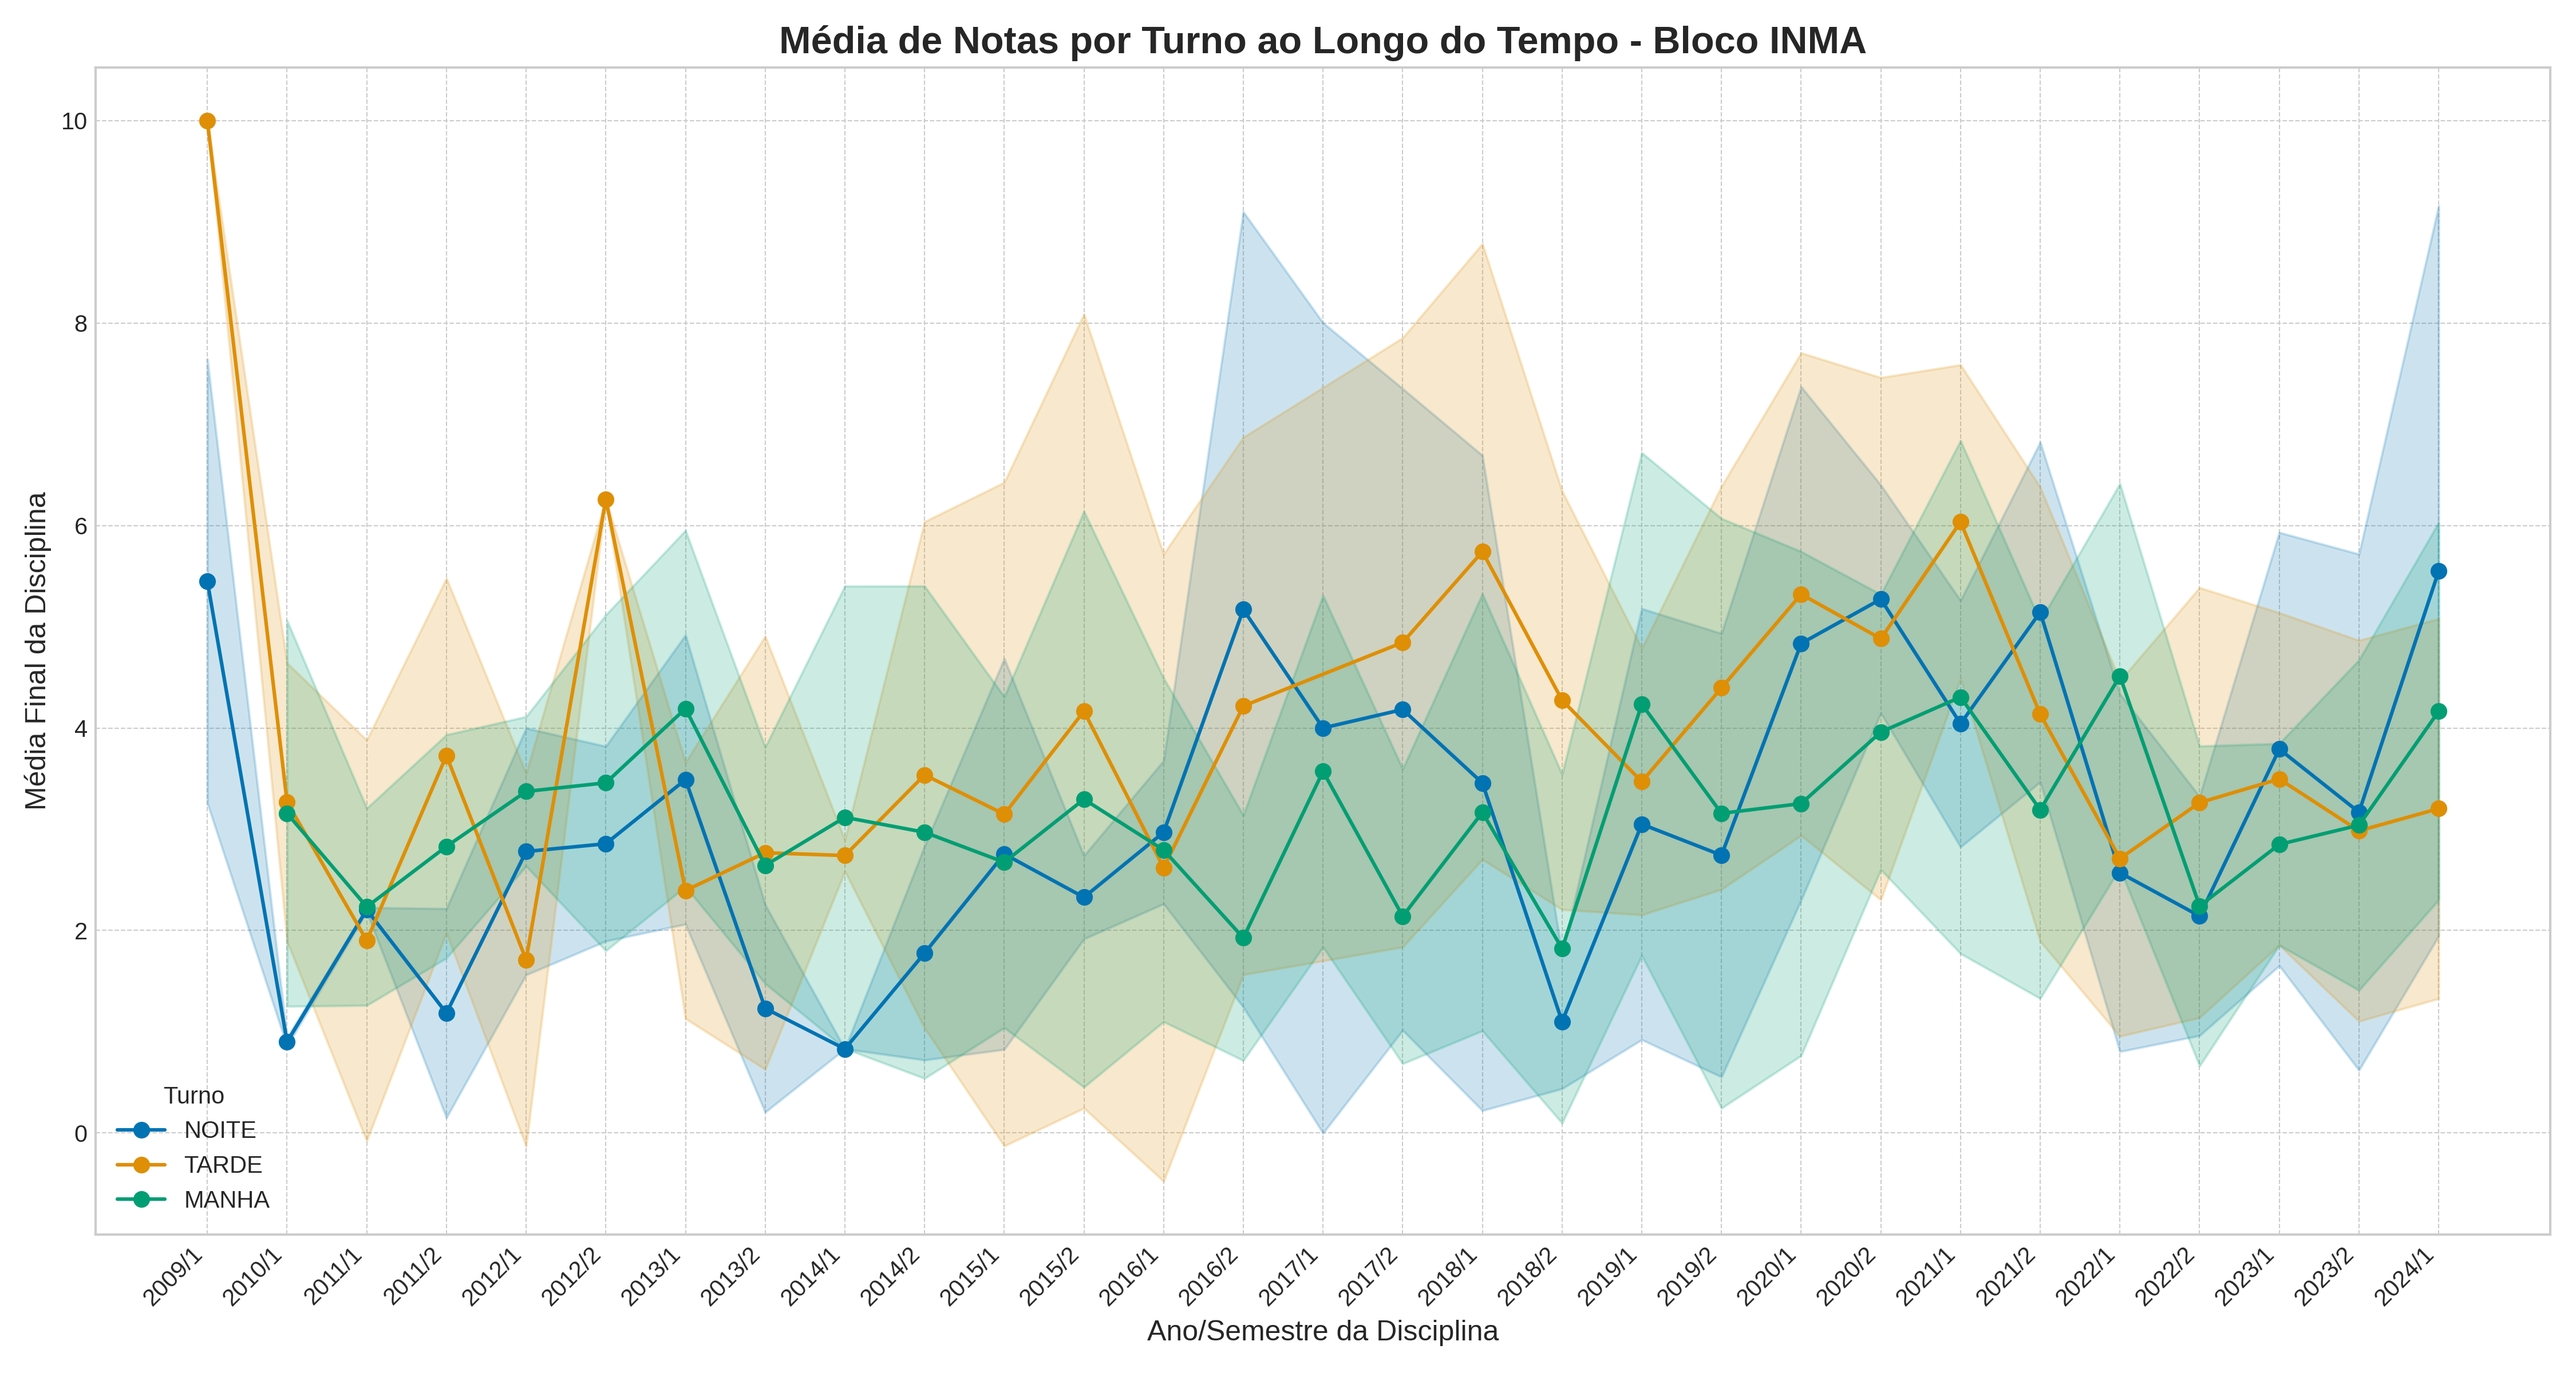
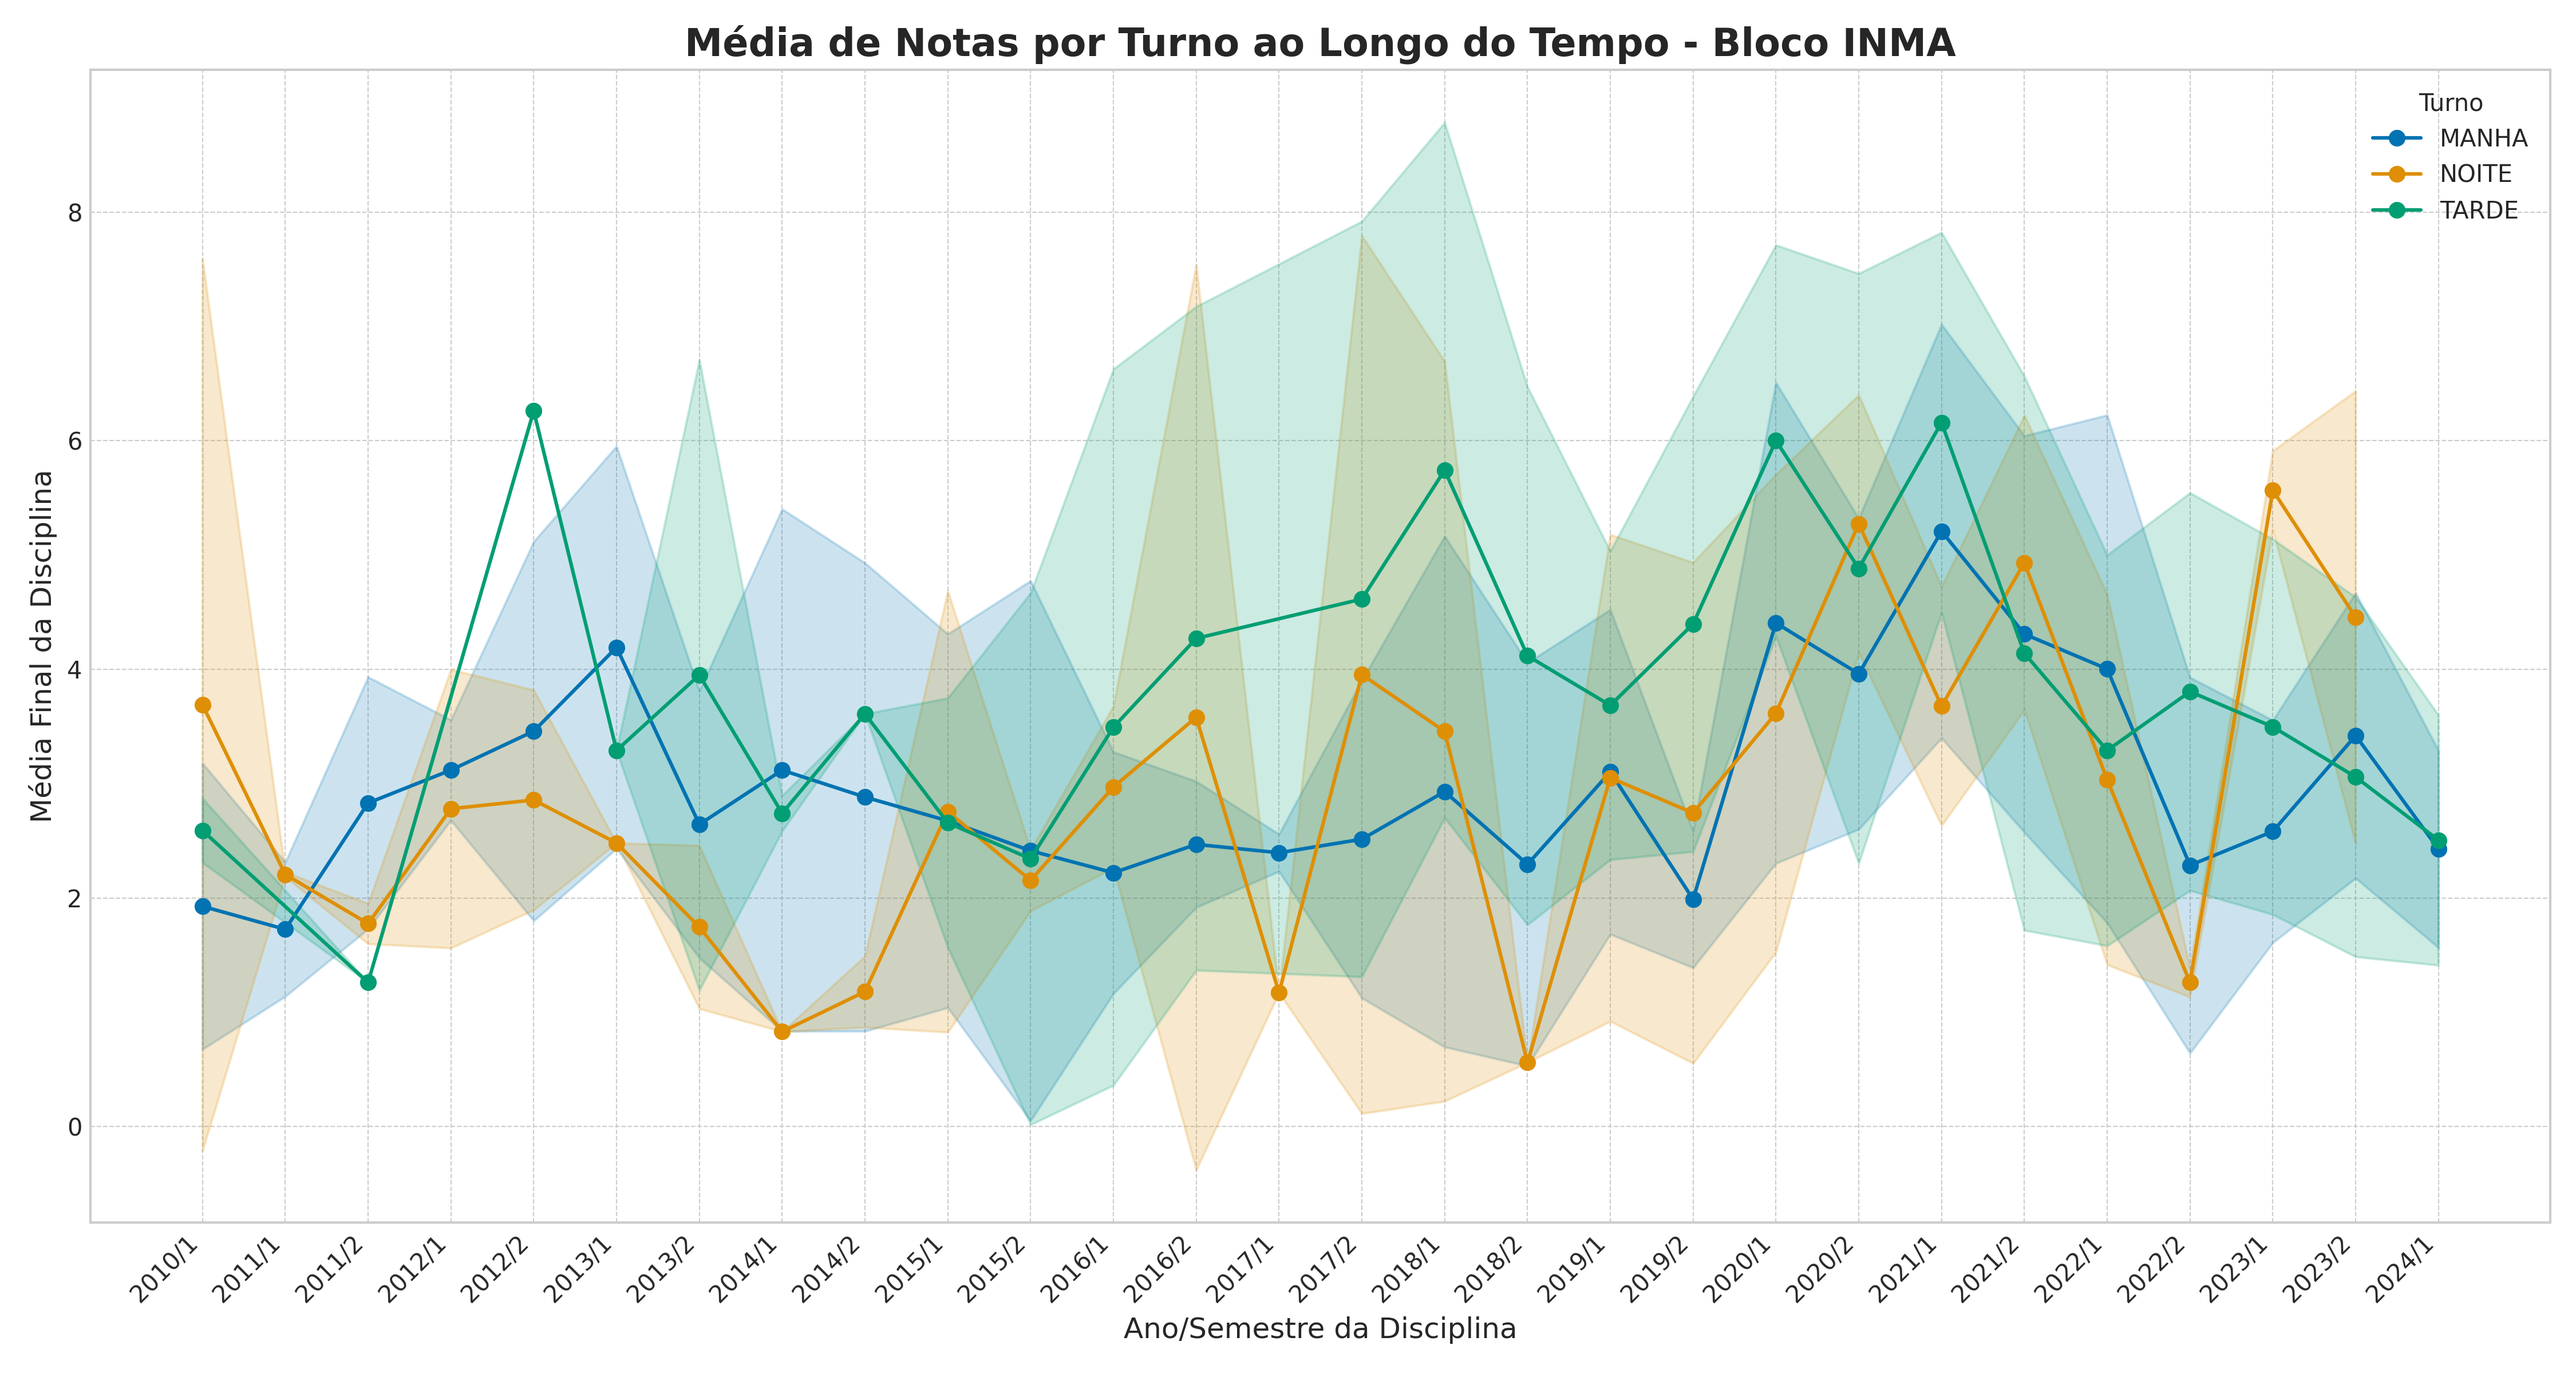
Implement code changes to enhance functionality and improve performance

diff --git a/graphs/graphs_analysis.py b/graphs/graphs_analysis.py
@@ -4,140 +4,142 @@ import matplotlib.pyplot as plt
 from pathlib import Path
 import logging
 
-BASE_PATH = Path(__file__).resolve().parent.parent
+
+BASE_PATH = Path().resolve()
 RESULTS_FOLDER = BASE_PATH / 'results'
+RESULTS_FOLDER.mkdir(exist_ok=True) 
 INPUT_CSV_PATH = RESULTS_FOLDER / 'materias_regulares.csv'
-OUTPUT_PLOT_PATH = RESULTS_FOLDER / 'media_turno_bloco_inma.png'
-OUTPUT_CSV_PATH = RESULTS_FOLDER / 'analise_bloco_inma_agregado.csv'
 
-TARGET_BLOCK = 'INMA'
 
-PLOT_CONFIG = {
-    "figsize": (15, 8),
-    "title": f"Média de Notas por Turno ao Longo do Tempo - Bloco {TARGET_BLOCK}",
-    "xlabel": "Ano/Semestre da Disciplina",
-    "ylabel": "Média Final da Disciplina",
-    "dpi": 300
-}
+MIN_STUDENTS_FILTER = 5
+MAX_WEEKLY_CLASSES_FILTER = 3
+BLOCK_NUN = "N/A"
 
 logging.basicConfig(level=logging.INFO, format='%(asctime)s - %(levelname)s - %(message)s')
 
 def load_data(file_path: Path) -> pd.DataFrame:
+    """Carrega os dados do arquivo CSV."""
     logging.info(f"Carregando dados de: {file_path}")
     if not file_path.exists():
         logging.error(f"Arquivo de entrada não encontrado: {file_path}")
         raise FileNotFoundError(f"Arquivo de entrada não encontrado: {file_path}.")
     return pd.read_csv(file_path, encoding='utf-8')
 
-def prepare_data_for_plot(df: pd.DataFrame, target_block: str) -> pd.DataFrame:
-    logging.info(f"Preparando dados para gráfico com média ponderada por alunos...")
+def apply_filters_and_cleaning(df: pd.DataFrame, min_students: int, max_weekly_classes: int) -> pd.DataFrame:
+    """Aplica a limpeza inicial e os filtros definidos."""
+    logging.info(f"Aplicando filtros: total_alunos >= {min_students} e carga_horaria <= {max_weekly_classes}")
     
-    COLUNA_ALUNOS = 'total_alunos_disciplina' 
+   
+    required_cols = ['media_disciplina', 'total_alunos_disciplina', 'carga_semanal_dias', 'bloco', 'turno_predominante']
+    for col in required_cols:
+        if col not in df.columns:
+            logging.error(f"A coluna obrigatória '{col}' não foi encontrada no CSV!")
+            raise KeyError(f"A coluna '{col}' não existe no DataFrame.")
+            
+   
+    for col in ['media_disciplina', 'total_alunos_disciplina', 'carga_semanal_dias']:
+        df[col] = pd.to_numeric(df[col], errors='coerce')
+    df.dropna(subset=required_cols, inplace=True)
 
-    if COLUNA_ALUNOS not in df.columns:
-        logging.error(f"A coluna '{COLUNA_ALUNOS}' não foi encontrada no CSV!")
-        raise KeyError(f"A coluna de alunos '{COLUNA_ALUNOS}' não existe no DataFrame.")
+   
+    filtered_df = df[
+        (df['total_alunos_disciplina'] >= min_students) &
+        (df['carga_semanal_dias'] <= max_weekly_classes) &
+        (df['bloco'] != BLOCK_NUN)
+    ].copy()
+    
+    filtered_df['bloco'] = filtered_df['bloco'].astype(str).str.upper()
+    return filtered_df
 
-    df['media_disciplina'] = pd.to_numeric(df['media_disciplina'], errors='coerce')
-    df[COLUNA_ALUNOS] = pd.to_numeric(df[COLUNA_ALUNOS], errors='coerce')
-    df.dropna(subset=['media_disciplina', COLUNA_ALUNOS], inplace=True)
-    df = df[df[COLUNA_ALUNOS] > 0].copy()
-
-    df['bloco'] = df['bloco'].astype(str).str.upper()
-    analysis_df = df[df['bloco'] == target_block.upper()].copy()
-
-    unique_classes_df = analysis_df.drop_duplicates(
-        subset=['Ano/Semestre Disciplina', 'Disciplina', 'turno_predominante']
+def aggregate_data(df: pd.DataFrame, group_by_cols: list) -> pd.DataFrame:
+    """Agrega os dados calculando a média aritmética simples e o desvio padrão."""
+    logging.info(f"Agregando dados por {group_by_cols} usando média aritmética...")
+    
+    unique_classes_df = df.drop_duplicates(
+        subset=['Ano/Semestre Disciplina', 'Disciplina', 'turno_predominante', 'bloco']
     )
-    logging.info(f"Registros únicos de turmas encontrados: {len(unique_classes_df)}")
     
     if unique_classes_df.empty:
-        logging.warning("Nenhuma turma encontrada para o bloco especificado após a filtragem.")
+        logging.warning("Nenhum dado restante após a remoção de duplicatas para agregação.")
         return pd.DataFrame()
 
-    unique_classes_df['soma_ponderada'] = unique_classes_df['media_disciplina'] * unique_classes_df[COLUNA_ALUNOS]
-
-    grouped = unique_classes_df.groupby(['Ano/Semestre Disciplina', 'turno_predominante'])
-
-    agg_calcs = grouped.agg(
-        soma_total_ponderada=('soma_ponderada', 'sum'),
-        soma_total_alunos=(COLUNA_ALUNOS, 'sum'),
-        desvio_padrao_das_medias=('media_disciplina', 'std')
-    ).reset_index()
-
-    agg_calcs['media_das_medias'] = agg_calcs['soma_total_ponderada'] / agg_calcs['soma_total_alunos']
-    agg_calcs['desvio_padrao_das_medias'] = agg_calcs['desvio_padrao_das_medias'].fillna(0)
-    
-    aggregated_df = agg_calcs[['Ano/Semestre Disciplina', 'turno_predominante', 'media_das_medias', 'desvio_padrao_das_medias']]
+    aggregated_df = unique_classes_df.groupby(group_by_cols)['media_disciplina'].agg(['mean', 'std']).reset_index()
+    aggregated_df.rename(columns={'mean': 'media_das_medias', 'std': 'desvio_padrao_das_medias'}, inplace=True)
+    aggregated_df['desvio_padrao_das_medias'] = aggregated_df['desvio_padrao_das_medias'].fillna(0)
     aggregated_df = aggregated_df.sort_values(by='Ano/Semestre Disciplina')
-
-    logging.info(f"Dados agregados (média ponderada) prontos para plotagem.")
+    
+    logging.info("Agregação por média aritmética concluída.")
     return aggregated_df
 
-def create_performance_over_time_plot(df: pd.DataFrame, output_path: Path):
+
+def create_comparison_plot(df: pd.DataFrame, output_path: Path, title: str, hue: str):
+    """Cria e salva um gráfico de comparação ao longo do tempo."""
     if df.empty:
-        logging.warning("DataFrame vazio após a preparação. O gráfico não será gerado.")
+        logging.warning(f"DataFrame para '{title}' está vazio. Gráfico não será gerado.")
         return
+
+    logging.info(f"Gerando gráfico: {title}")
     
-    logging.info("Gerando gráfico a partir de dados agregados...")
-
     plt.style.use('seaborn-v0_8-whitegrid')
-    fig, ax = plt.subplots(figsize=PLOT_CONFIG['figsize']) 
+    fig, ax = plt.subplots(figsize=(18, 10))
 
-    colors = sns.color_palette("colorblind", n_colors=len(df['turno_predominante'].unique()))
-    turnos = df['turno_predominante'].unique()
-    for i, turno in enumerate(turnos):
-        turno_df = df[df['turno_predominante'] == turno]
-        
-        ax.plot(
-            turno_df['Ano/Semestre Disciplina'],
-            turno_df['media_das_medias'],
-            marker='o',
-            linestyle='-',
-            label=turno,
-            color=colors[i]
-        )
+    sns.lineplot(
+        data=df,
+        x='Ano/Semestre Disciplina',
+        y='media_das_medias',
+        hue=hue,
+        marker='o',
+        ax=ax
+    )
 
-        ax.fill_between(
-            turno_df['Ano/Semestre Disciplina'],
-            turno_df['media_das_medias'] - turno_df['desvio_padrao_das_medias'], # Limite inferior
-            turno_df['media_das_medias'] + turno_df['desvio_padrao_das_medias'], # Limite superior
-            color=colors[i],
-            alpha=0.2 
-        )
-
-    ax.set_title(PLOT_CONFIG['title'], fontsize=16, weight='bold')
-    ax.set_xlabel(PLOT_CONFIG['xlabel'], fontsize=12)
-    ax.set_ylabel(PLOT_CONFIG['ylabel'], fontsize=12)
+    ax.set_title(title, fontsize=18, weight='bold')
+    ax.set_xlabel("Ano/Semestre da Disciplina", fontsize=12)
+    ax.set_ylabel("Média Final (Aritmética)", fontsize=12)
     plt.xticks(rotation=45, ha='right')
-    ax.legend(title='Turno')
+    ax.legend(title=hue.replace('_', ' ').capitalize(), bbox_to_anchor=(1.05, 1), loc='upper left')
     ax.grid(True, which='both', linestyle='--', linewidth=0.5)
-    plt.tight_layout()
+    plt.tight_layout(rect=[0, 0, 0.85, 1])
 
-    plt.savefig(output_path, dpi=PLOT_CONFIG['dpi'])
+    plt.savefig(output_path, dpi=300)
     logging.info(f"Gráfico salvo com sucesso em: {output_path}")
+    plt.close(fig)
 
-def run_block_performance_analysis():
+
+def run_comparative_analysis():
+    """Executa a análise completa, gerando os gráficos de comparação."""
     try:
         raw_df = load_data(INPUT_CSV_PATH)
-        filtered_df = prepare_data_for_plot(raw_df, TARGET_BLOCK)
+        base_filtered_df = apply_filters_and_cleaning(raw_df, MIN_STUDENTS_FILTER, MAX_WEEKLY_CLASSES_FILTER)
 
-        if not filtered_df.empty:
-            logging.info(f"Salvando dados agregados em arquivo CSV...")
-      
-            filtered_df.to_csv(OUTPUT_CSV_PATH, index=False, encoding='utf-8-sig')
-            logging.info(f"Dados agregados salvos com sucesso em: {OUTPUT_CSV_PATH}")
-        else:
-            logging.warning("DataFrame de análise está vazio. Nenhum arquivo CSV será gerado.")
-    
+        turnos_data = aggregate_data(base_filtered_df, group_by_cols=['Ano/Semestre Disciplina', 'turno_predominante'])
+        turnos_output_path = RESULTS_FOLDER / 'comparacao_turnos_media_simples.png'
+        create_comparison_plot(
+            df=turnos_data,
+            output_path=turnos_output_path,
+            title="Média de Notas por Turno (Todos os Blocos - Filtros Aplicados)",
+            hue='turno_predominante'
+        )
 
-        create_performance_over_time_plot(filtered_df, OUTPUT_PLOT_PATH)
+        blocos_data = aggregate_data(base_filtered_df, group_by_cols=['Ano/Semestre Disciplina', 'bloco'])
         
-    except FileNotFoundError as e:
-        logging.error(str(e))
+        top_10_blocos = blocos_data['bloco'].value_counts().nlargest(10).index
+        blocos_data_filtrado = blocos_data[blocos_data['bloco'].isin(top_10_blocos)]
+        
+        blocos_output_path = RESULTS_FOLDER / 'comparacao_blocos_media_simples.png'
+        create_comparison_plot(
+            df=blocos_data_filtrado,
+            output_path=blocos_output_path,
+            title="Média de Notas por Bloco (Top 10 com Mais Registros - Filtros Aplicados)",
+            hue='bloco'
+        )
+        
+        logging.info("Análise comparativa completa executada com sucesso!")
+
+    except (FileNotFoundError, KeyError) as e:
+        logging.error(f"ERRO CRÍTICO: {e}")
     except Exception as e:
-        logging.error(str(e))
+        logging.error(f"Ocorreu um erro inesperado: {e}")
 
 
 if __name__ == "__main__":
-    run_block_performance_analysis()
+    run_comparative_analysis()
